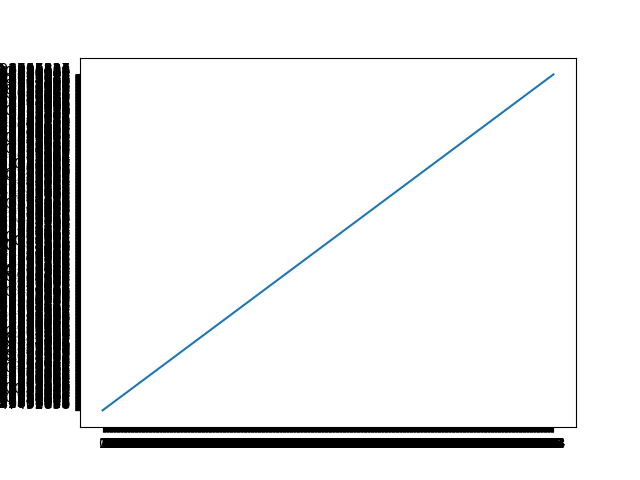
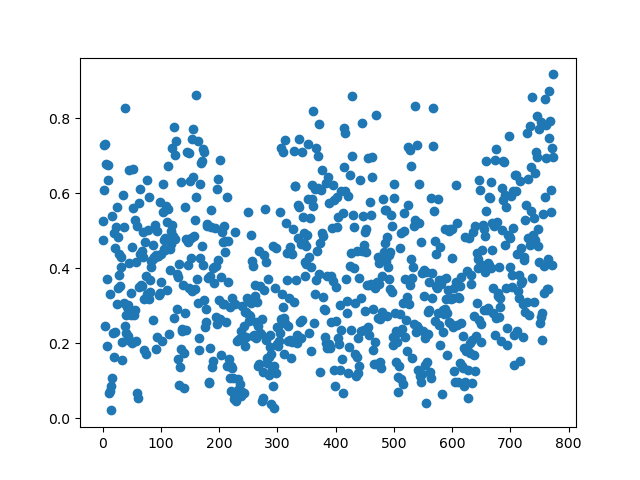
Scatter plot attempt.

diff --git a/thermoclass/results.py b/thermoclass/results.py
@@ -91,8 +91,8 @@ def plot_predictions(predictions_file, seq_key, indeces, sep, output_png, smooth
 	for line in lines:
 		line_arr = line.split('\t')
 		if(line_arr[0] == seq_key):
-			x_values.append(line_arr[indeces[0]])
-			y_values.append(line_arr[indeces[1]])
+			x_values.append(int(line_arr[indeces[0]]))
+			y_values.append(float(line_arr[indeces[1]]))
 
-	plt.plot(x_values, y_values)
+	plt.scatter(x_values, y_values)
 	plt.savefig(output_png)
